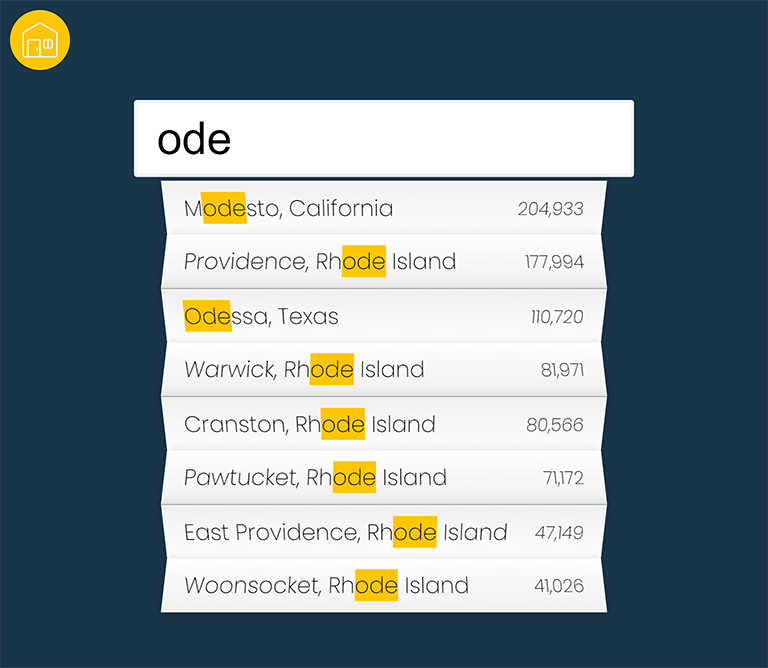
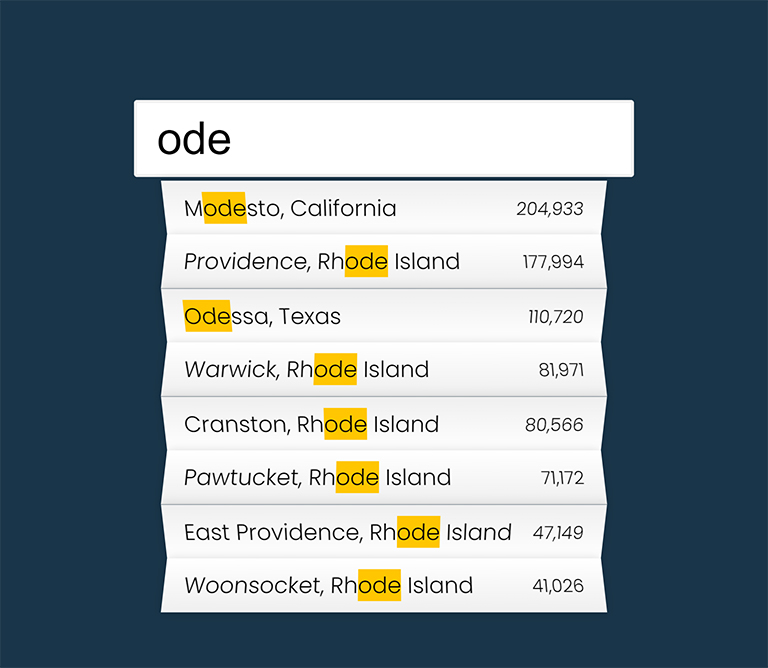
Update main page

diff --git a/css/styles.css b/css/styles.css
@@ -1,16 +1,18 @@
-@import url('https://fonts.googleapis.com/css2?family=Poppins:wght@100;400;700&display=swap');
-
-
+@import url('https://fonts.googleapis.com/css2?family=Poppins:wght@400&display=swap');
 
 html {
   font-family: 'Poppins', Arial, Helvetica, sans-serif;
   font-weight: 400;
-  font-size: 16px;
+  font-size: 18px;
   text-align: center;
 }
 
 header svg {
   vertical-align: middle;
+}
+
+header h1 {
+  margin: 10px 0;
 }
 
 main {

diff --git a/index.html b/index.html
@@ -48,8 +48,8 @@
     </a>
     <a href="./06-ajax-type-ahead/" class="project">
       <div class="day">Day 6</div>
-      <img src="https://source.unsplash.com/kRNZiGKtz48" alt="Project thumbnail">
-      <div class="project-name">Type Ahead</div>
+      <img src="./thumbnails/day6.jpg" alt="Project thumbnail">
+      <div class="project-name">Ajax Type Ahead</div>
     </a>
     <section class="project">
       <div class="day">Day 7</div>

diff --git a/06-ajax-type-ahead/styles.css b/06-ajax-type-ahead/styles.css
@@ -1,4 +1,4 @@
-@import url('https://fonts.googleapis.com/css2?family=Poppins:wght@200;700&display=swap');
+@import url('https://fonts.googleapis.com/css2?family=Poppins:wght@300&display=swap');
 @import '../css/variables.css';
 
 html {
@@ -7,7 +7,7 @@ html {
 
 body {
   font-family: 'Poppins', Arial, Helvetica, sans-serif;
-  font-weight: 200;
+  font-weight: 300;
   display: flex;
   flex-direction: column;
   align-items: center;

diff --git a/README.md b/README.md
@@ -12,7 +12,7 @@ List:
 - [x] 3.  CSS Variables
 - [x] 4.  Array Cardio Day 1
 - [x] 5.  Flex Panel Gallery
-- [ ] 6.  Type Ahead
+- [x] 6.  Type Ahead
 - [ ] 7.  Array Cardio Day 2
 - [ ] 8.  Fun with HTML5 Canvas
 - [ ] 9.  Dev Tools Domination
